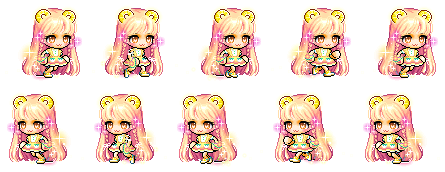
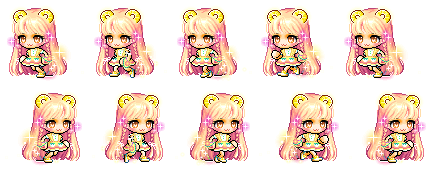
edit walk image

diff --git a/character.js b/character.js
@@ -1,3 +1,6 @@
+const characterSprite = new Image();
+characterSprite.src = 'walk.png';
+
 class Character {
   constructor() {
     this.x = 20;
